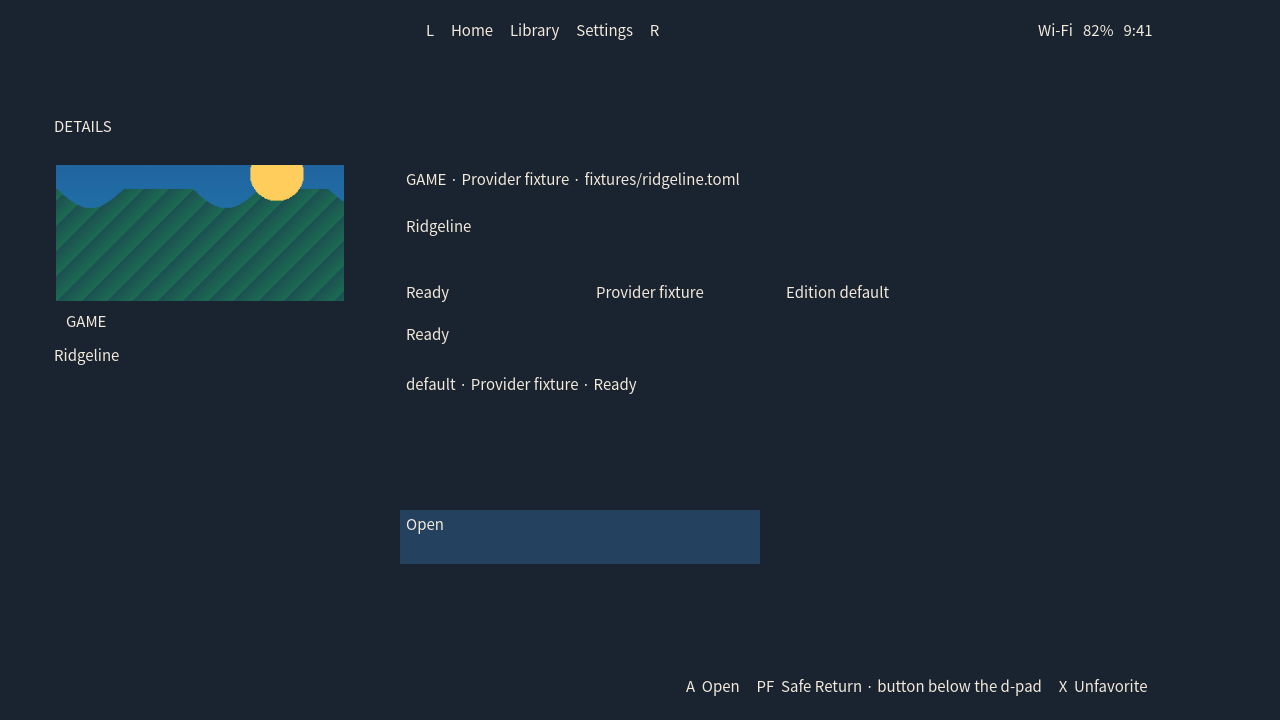
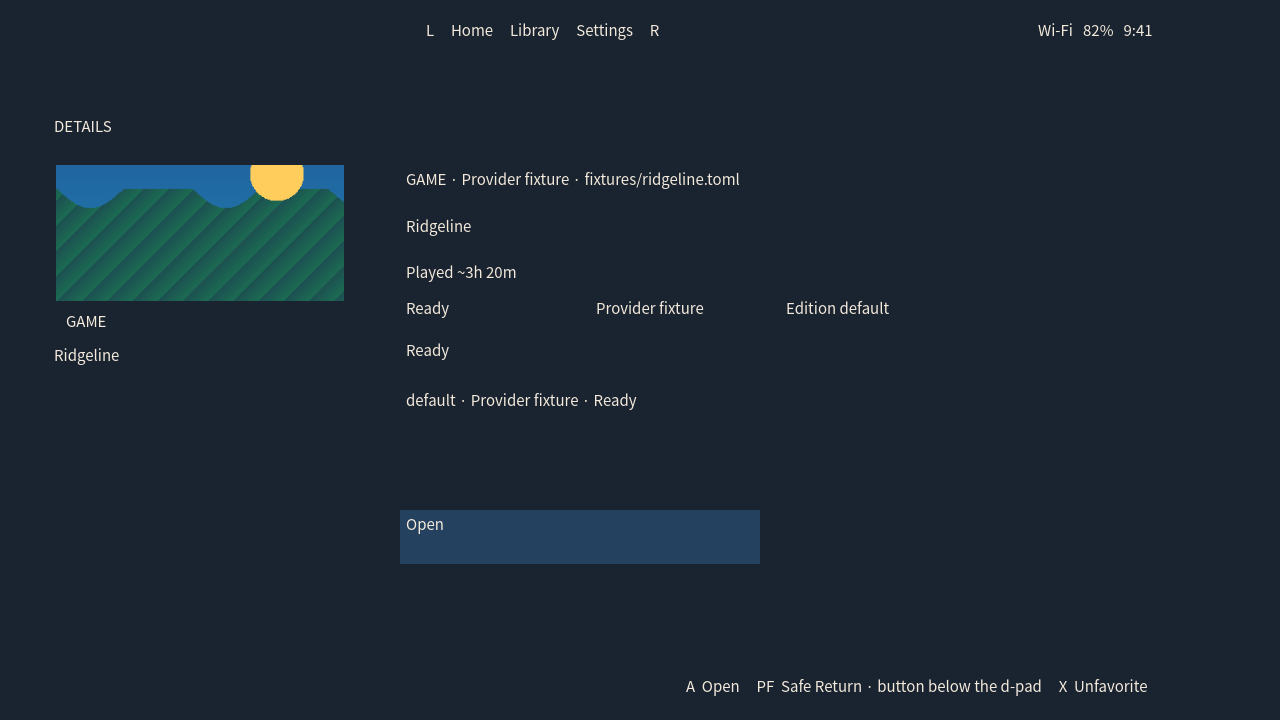
tsp-op5a.100: Implemented per-title playtime derivation from authority-owned t
Authored by the Codex execution lane (infra-260 S1, bead tsp-op5a.100).

Codex-Lane: infra-260
Bead: tsp-op5a.100

diff --git a/crates/pf-shell-core/src/lib.rs b/crates/pf-shell-core/src/lib.rs
@@ -24,12 +24,56 @@ use pf_ports::{
 use pf_scene::{
     AxisMove, Bounds, ImageFit, ImageSource, Node, NodeAction, NodeId, Role, Scene, SurfaceMetrics,
 };
+use pf_session_authority::{EndPrecision, HistoryEntry};
 use pf_theme::Theme;
 use sha2::{Digest, Sha256};
+use std::collections::HashMap;
 use std::sync::Arc;
 use std::time::{Duration, SystemTime};
 
 const TIMEZONES: [&str; 4] = ["UTC", "America/New_York", "Europe/London", "Asia/Tokyo"];
+
+#[derive(Clone, Copy, Debug, Eq, PartialEq)]
+pub struct Playtime {
+    pub duration: Duration,
+    pub approximate: bool,
+}
+
+/// Derives authority-owned playtime totals. Entries without both wall-clock stamps do not
+/// contribute; backwards clocks contribute a known zero rather than a negative duration.
+#[must_use]
+pub fn derive_playtime(entries: &[HistoryEntry]) -> HashMap<String, Playtime> {
+    let mut totals = HashMap::<String, Playtime>::new();
+    for entry in entries {
+        let (Some(started_at), Some(ended_at)) = (entry.started_at, entry.ended_at) else {
+            continue;
+        };
+        let total = totals.entry(entry.item_id.clone()).or_insert(Playtime {
+            duration: Duration::ZERO,
+            approximate: false,
+        });
+        total.duration = total
+            .duration
+            .saturating_add(ended_at.at.duration_since(started_at).unwrap_or_default());
+        total.approximate |= ended_at.precision == EndPrecision::Approximate;
+    }
+    totals
+}
+
+#[must_use]
+pub fn format_playtime(playtime: Playtime) -> String {
+    let prefix = if playtime.approximate { "~" } else { "" };
+    let minutes = playtime.duration.as_secs() / 60;
+    if minutes == 0 {
+        return format!("Played {prefix}<1m");
+    }
+    let hours = minutes / 60;
+    if hours == 0 {
+        format!("Played {prefix}{minutes}m")
+    } else {
+        format!("Played {prefix}{hours}h {}m", minutes % 60)
+    }
+}
 
 fn applied_bool_status(
     label: &str,
@@ -230,6 +274,7 @@ pub struct ShellCore {
     time_state: Result<pf_ports::TimeState, String>,
     transfer_services: Result<Vec<TransferServiceState>, String>,
     system_status: Option<String>,
+    playtime: HashMap<String, Playtime>,
 }
 
 impl ShellCore {
@@ -329,6 +374,15 @@ impl ShellCore {
             time_state: Err("Time status unavailable".into()),
             transfer_services: Err("Transfer status unavailable".into()),
             system_status: None,
+            playtime: HashMap::new(),
+        }
+    }
+
+    pub fn load_history(&mut self, entries: &[HistoryEntry]) {
+        let playtime = derive_playtime(entries);
+        if self.playtime != playtime {
+            self.playtime = playtime;
+            self.bump_revision();
         }
     }
 
@@ -1904,6 +1958,8 @@ impl ShellCore {
                 return;
             };
             let item = &self.items[item_index];
+            let has_playtime = self.playtime.contains_key(&item.id);
+            let detail_offset = if has_playtime { 16.0 } else { 0.0 };
             let provider = item.variants.first().map_or("No provider", |variant| {
                 variant.provenance.provider_id.as_str()
             });
@@ -1938,6 +1994,18 @@ impl ShellCore {
                 58.0,
                 "--state-rest-text",
             ));
+            if let Some(playtime) = self.playtime.get(&item.id).copied() {
+                out.push(node(
+                    "detail-playtime",
+                    Role::Text,
+                    &format_playtime(playtime),
+                    400.0,
+                    258.0,
+                    w - 448.0,
+                    30.0,
+                    "--color-text-secondary",
+                ));
+            }
             out.extend(art_nodes(item, "detail-art", 48.0, 165.0, 304.0, false));
             if let Some(variant) = item.variants.first() {
                 let availability = availability_text(&variant.availability, &self.presentation);
@@ -1955,7 +2023,7 @@ impl ShellCore {
                         Role::Text,
                         &label,
                         400.0 + index as f32 * 190.0,
-                        278.0,
+                        278.0 + detail_offset,
                         174.0,
                         36.0,
                         state_token(&variant.availability, false),
@@ -1966,7 +2034,7 @@ impl ShellCore {
                     Role::Text,
                     &availability,
                     400.0,
-                    320.0,
+                    320.0 + detail_offset,
                     w - 448.0,
                     38.0,
                     "--color-text-secondary",
@@ -1983,7 +2051,7 @@ impl ShellCore {
                         availability_text(&variant.availability, &self.presentation)
                     ),
                     400.0,
-                    370.0 + variant_index as f32 * 55.0,
+                    370.0 + detail_offset + variant_index as f32 * 55.0,
                     w - 448.0,
                     48.0,
                     state_token(&variant.availability, false),
@@ -2920,6 +2988,83 @@ fn node(id: &str, role: Role, label: &str, x: f32, y: f32, w: f32, h: f32, token
 #[cfg(test)]
 mod tests {
     use super::*;
+    use pf_session_authority::{EndStamp, Receipt};
+
+    fn history_entry(
+        item_id: &str,
+        started_at: Option<SystemTime>,
+        ended_at: Option<(SystemTime, EndPrecision)>,
+    ) -> HistoryEntry {
+        HistoryEntry {
+            session_id: format!("session-{item_id}"),
+            item_id: item_id.into(),
+            receipt: Some(Receipt::Returned),
+            started_at,
+            ended_at: ended_at.map(|(at, precision)| EndStamp { at, precision }),
+        }
+    }
+
+    #[test]
+    fn playtime_requires_both_stamps_and_unknown_is_absent() {
+        let now = SystemTime::UNIX_EPOCH + Duration::from_secs(1_000);
+        let totals = derive_playtime(&[
+            history_entry("no-start", None, Some((now, EndPrecision::Observed))),
+            history_entry("no-end", Some(now), None),
+        ]);
+
+        assert!(totals.is_empty());
+    }
+
+    #[test]
+    fn playtime_sums_clamps_and_propagates_approximate_precision() {
+        let now = SystemTime::UNIX_EPOCH + Duration::from_secs(10_000);
+        let totals = derive_playtime(&[
+            history_entry(
+                "ridgeline-rally",
+                Some(now),
+                Some((now + Duration::from_secs(3_600), EndPrecision::Observed)),
+            ),
+            history_entry(
+                "ridgeline-rally",
+                Some(now),
+                Some((now + Duration::from_secs(600), EndPrecision::Approximate)),
+            ),
+            history_entry(
+                "clock-went-back",
+                Some(now),
+                Some((now - Duration::from_secs(5), EndPrecision::Observed)),
+            ),
+        ]);
+
+        assert_eq!(
+            totals["ridgeline-rally"],
+            Playtime {
+                duration: Duration::from_secs(4_200),
+                approximate: true,
+            }
+        );
+        assert_eq!(totals["clock-went-back"].duration, Duration::ZERO);
+        assert_eq!(format_playtime(totals["ridgeline-rally"]), "Played ~1h 10m");
+        assert_eq!(format_playtime(totals["clock-went-back"]), "Played <1m");
+    }
+
+    #[test]
+    fn playtime_format_omits_seconds_and_handles_sub_minute() {
+        assert_eq!(
+            format_playtime(Playtime {
+                duration: Duration::from_secs(59),
+                approximate: false,
+            }),
+            "Played <1m"
+        );
+        assert_eq!(
+            format_playtime(Playtime {
+                duration: Duration::from_secs(3 * 3_600 + 20 * 60 + 59),
+                approximate: false,
+            }),
+            "Played 3h 20m"
+        );
+    }
     use pf_catalog::{
         AppKind, AppManifestRef, Presentation as CP, Provenance, UserProjection, Variant,
     };
@@ -3934,7 +4079,32 @@ mod tests {
 
         core.selected_item = Some(1);
         core.go(Route::Details);
+        let unknown_details = core.scene(metrics, "").unwrap();
+        assert!(
+            !unknown_details
+                .root()
+                .children
+                .iter()
+                .any(|node| node.id.as_str() == "detail-playtime"),
+            "unknown playtime must not render as zero"
+        );
+        let start = SystemTime::UNIX_EPOCH + Duration::from_secs(1_000);
+        core.load_history(&[history_entry(
+            "tides",
+            Some(start),
+            Some((
+                start + Duration::from_secs(3 * 3_600 + 20 * 60),
+                EndPrecision::Approximate,
+            )),
+        )]);
         let details = core.scene(metrics, "").unwrap();
+        let played = details
+            .root()
+            .children
+            .iter()
+            .find(|node| node.id.as_str() == "detail-playtime")
+            .expect("known playtime anatomy");
+        assert_eq!(played.accessible_label, "Played ~3h 20m");
         for id in [
             "detail-badge-0",
             "detail-badge-1",

diff --git a/crates/pf-shell/src/main.rs b/crates/pf-shell/src/main.rs
@@ -15,6 +15,7 @@ use pf_prefs::PrefsStore;
 use pf_prefs_port::PrefsPreferencePort;
 use pf_render::RenderNote;
 use pf_scene::{Insets, Orientation, SurfaceMetrics};
+use pf_session_authority::{EndPrecision, EndStamp, HistoryEntry};
 use pf_session_client::{SessionClient, SocketTransport};
 use pf_shell::{
     EvdevActionSource, FavoriteCatalog, GamepadRemap, commit_favorite, favorite_footer_prompt,
@@ -289,6 +290,17 @@ fn emit_f10_evidence(
 ) -> Result<(), String> {
     let mut core = fixture_core(snapshot, theme, false);
     core.authority_snapshot(false);
+    let start = std::time::SystemTime::UNIX_EPOCH + Duration::from_secs(10_000);
+    core.load_history(&[HistoryEntry {
+        session_id: "fictional-ridgeline-session".into(),
+        item_id: "ridgeline".into(),
+        receipt: None,
+        started_at: Some(start),
+        ended_at: Some(EndStamp {
+            at: start + Duration::from_secs(3 * 60 * 60 + 20 * 60),
+            precision: EndPrecision::Approximate,
+        }),
+    }]);
     core.action(&ShellAction::Move(pf_scene::AxisMove::Right));
     core.action(&ShellAction::Move(pf_scene::AxisMove::Down));
     core.action(&ShellAction::Move(pf_scene::AxisMove::Down));
@@ -560,6 +572,7 @@ fn drive_socket_session(
     core: &mut ShellCore,
     session: &mut SessionClient<SocketTransport>,
 ) -> Result<(), String> {
+    refresh_history(core, session);
     loop {
         match session.next_event(Deadline(MonotonicTime::ZERO)) {
             Ok(SessionPoll::Event(event)) => {
@@ -578,6 +591,7 @@ fn drive_socket_session(
             }
             Ok(SessionPoll::Idle | SessionPoll::DeadlineReached) => {
                 core.session_backend_reachable();
+                refresh_history(core, session);
                 break;
             }
             Err(SessionError::BackendUnavailable) => {
@@ -588,6 +602,12 @@ fn drive_socket_session(
         }
     }
     Ok(())
+}
+
+fn refresh_history(core: &mut ShellCore, session: &mut SessionClient<SocketTransport>) {
+    if let Ok(entries) = session.transport_mut().history_entries() {
+        core.load_history(&entries);
+    }
 }
 
 fn fixture_preferences() -> FakePreferencePort {

diff --git a/crates/pf-shell/tests/frame_hashes.rs b/crates/pf-shell/tests/frame_hashes.rs
@@ -21,7 +21,7 @@ fn vertical_slice_frame_hashes_are_stable() {
         "7406be94de19901de71d391fc4e9d0da4f7eaa001ff21df4d586839e467b44cb  ",
         "ed834653df734bce10b27975dd9902fb522cfbb2adbea1b540d2082a36199915  ",
         "d183cf77d9516f39e2dca6f2c86ccb57b2fad5dc29d1c39acc0fdd7e99558a45  ",
-        "20930cc253e2f9b91753d764f1f288ebc2ff66092ecb839218080e667ad0ec89  ",
+        "a075090f02a1374422e80286a43663405fbe69167afc4eb513830d79d304a44a  ",
         "c536f4a909a8e2bc41958884baf187e77cf4e6c24c607536c15c98692daf15af  ",
     ] {
         assert!(lines.contains(expected), "missing {expected} in {lines}");
